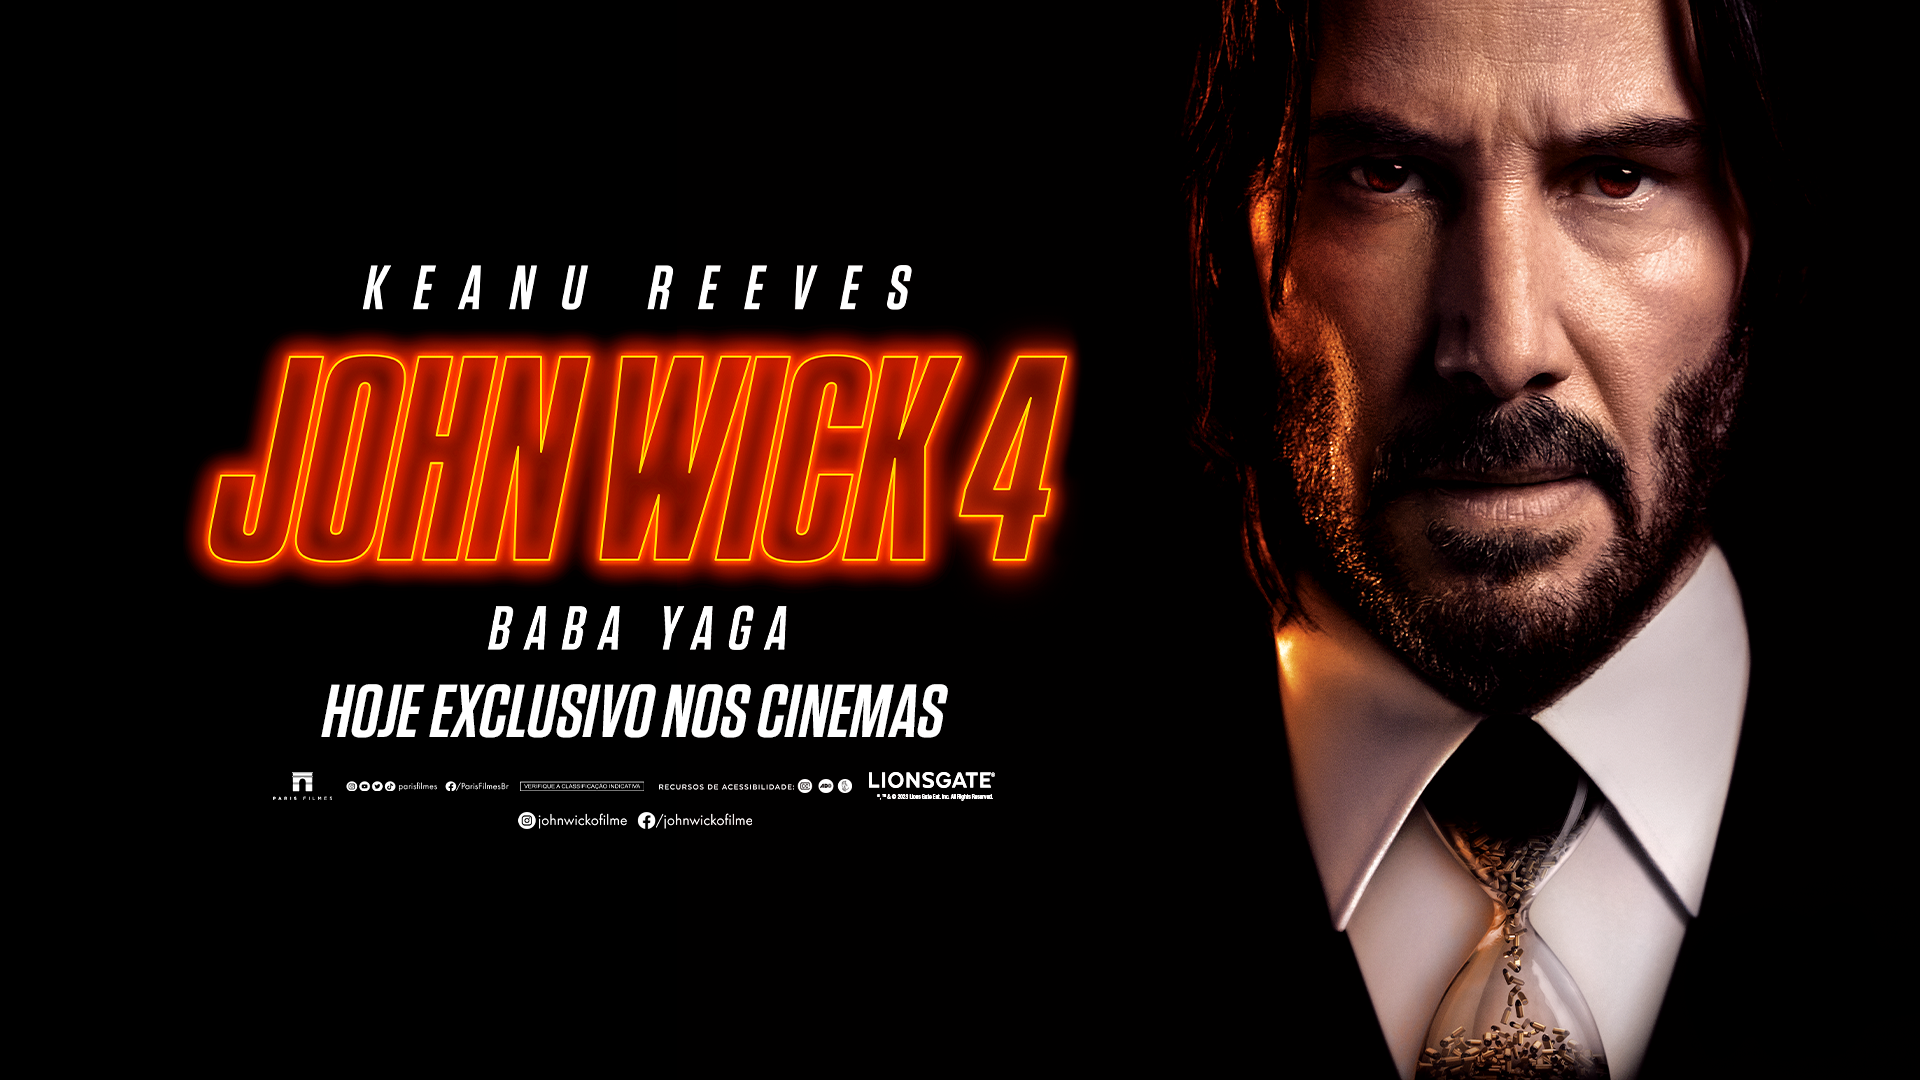
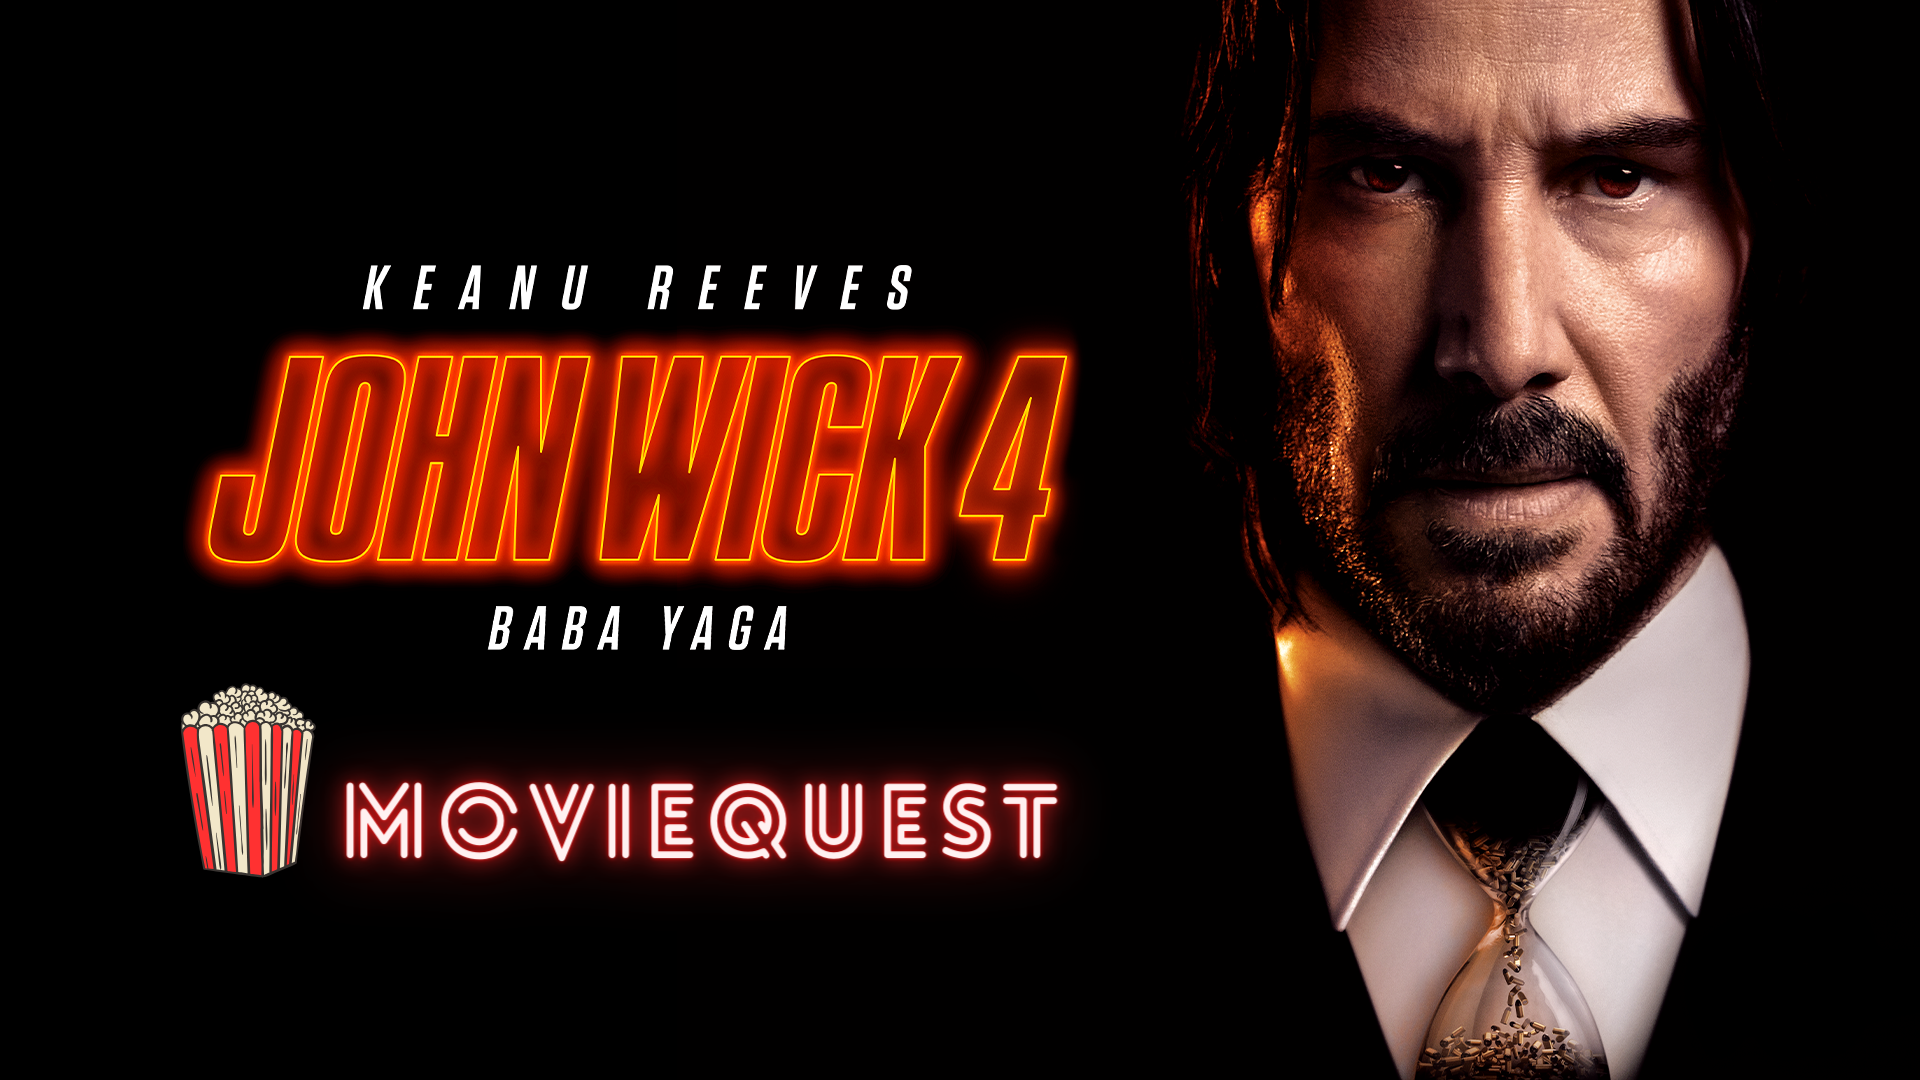
:ok_hand: Code review changes

Changed region(s): [[0.0938, 0.6111, 0.5625, 0.825]]

diff --git a/src/pages/movie/index.js b/src/pages/movie/index.js
@@ -1,6 +1,5 @@
-import { useEffect, useState } from "react";
-import { useParams } from "react-router-dom";
-import { Link } from "react-router-dom";
+import React, { useEffect, useState } from "react";
+import { useParams, Link } from "react-router-dom";
 import { ContainerMovie } from "../home/style";
 import "./styles.css";
 
@@ -8,56 +7,72 @@ const Movie = () => {
   const { id } = useParams();
   const imagePath = "https://image.tmdb.org/t/p/w500";
 
-  const [movie, setMovie] = useState(null); // Inicialize movie como nulo
+  const [movie, setMovie] = useState(null);
 
   const KEY = process.env.REACT_APP_KEY;
+
   useEffect(() => {
-    fetch(
-      `https://api.themoviedb.org/3/movie/${id}?api_key=${KEY}&language=pt-BR`
-    )
-      .then((response) => response.json())
-      .then((data) => {
+    const fetchMovieDetails = async () => {
+      try {
+        const response = await fetch(
+          `https://api.themoviedb.org/3/movie/${id}?api_key=${KEY}&language=pt-BR`
+        );
+        const data = await response.json();
         setMovie(data);
-      })
-      .catch((error) => {
+      } catch (error) {
         console.error("Erro ao buscar detalhes do filme:", error);
-      });
+      }
+    };
+
+    fetchMovieDetails();
   }, [id, KEY]);
 
   if (!movie) {
     // Verificando se o filme está definido antes de acessar suas propriedades
-    return (
-      <div id="loading">
-        Carregando...
-      </div>
-    )
+    return <div id="loading">Carregando...</div>;
   }
 
   return (
     <ContainerMovie>
-      <div id="box">
+  <div className="container-fluid">
+    <div className="row">
+      <div className="col-lg-6 d-flex justify-content-center align-items-center" style={{ padding: "20px" }}>
         <img
           className="img_movie"
           src={`${imagePath}${movie.poster_path}`}
           alt={movie.title}
         />
-        <div className="container">
-          <h1>{movie.title}</h1>
-          <h3>Data de lançamento: {movie.release_date}</h3>
-          <div className="descricao">
-            <h4>Descrição: </h4>
-            <p className="movie-desc">{movie.overview}</p>
-          </div>
-          <Link to="/">
-            <button className="link_button">
-              <svg xmlns="http://www.w3.org/2000/svg" width="40" height="40" fill="currentColor" className="bi bi-x" viewBox="0 0 16 16">
-                <path d="M4.646 4.646a.5.5 0 0 1 .708 0L8 7.293l2.646-2.647a.5.5 0 0 1 .708.708L8.707 8l2.647 2.646a.5.5 0 0 1-.708.708L8 8.707l-2.646 2.647a.5.5 0 0 1-.708-.708L7.293 8 4.646 5.354a.5.5 0 0 1 0-.708z"/>
-              </svg>
-            </button>
-          </Link>
-        </div>
       </div>
-    </ContainerMovie>
+      <div className="col-lg-6 text-center">
+        <h1>{movie.title}</h1>
+        <h3>Data de lançamento: {movie.release_date}</h3>
+        <h3>Classificação: {movie.vote_average}/10</h3>
+        <h3>
+          Gêneros: {movie.genres.map((genre) => genre.name).join(", ")}
+        </h3>
+        <h4>Descrição: </h4>
+        <div className="descricao">
+          <p className="movie-desc">{movie.overview}</p>
+        </div>
+        <Link to="/">
+          <button className="link_button">
+            <svg
+              xmlns="http://www.w3.org/2000/svg"
+              width="40"
+              height="40"
+              fill="currentColor"
+              className="bi bi-x"
+              viewBox="0 0 16 16"
+            >
+              <path d="M4.646 4.646a.5.5 0 0 1 .708 0L8 7.293l2.646-2.647a.5.5 0 0 1 .708.708L8.707 8l2.647 2.646a.5.5 0 0 1-.708.708L8 8.707l-2.646 2.647a.5.5 0 0 1-.708-.708L7.293 8 4.646 5.354a.5.5 0 0 1 0-.708z" />
+            </svg>
+          </button>
+        </Link>
+      </div>
+    </div>
+  </div>
+</ContainerMovie>
+
   );
 };
 

diff --git a/src/pages/home/index.js b/src/pages/home/index.js
@@ -17,7 +17,7 @@ function Home() {
   const [initialMovies, setInitialMovies] = useState([]);
   const [genres, setGenres] = useState([]);
 
-  // Efeitos colaterais (useEffect)
+  // useEffect
   useEffect(() => {
     fetchPopularMovies();
     fetchGenres();
@@ -105,7 +105,7 @@ function Home() {
     <Container>
       <nav className="navbar navbar-expand-lg fixed-top">
         <div className="container-fluid">
-          <a className="navbar-brand text-white" href="#">
+          <a className="navbar-brand text-white" href="/">
             MovieQuest
           </a>
           <button
@@ -137,7 +137,7 @@ function Home() {
                 <a
                   className="nav-link active text-white"
                   aria-current="page"
-                  href="#inicio"
+                  href="/"
                 >
                   Início
                 </a>
@@ -226,28 +226,36 @@ function Home() {
         </div>
         <div className="carousel-inner">
           <div className="carousel-item active">
-            <img
-              src={process.env.PUBLIC_URL + "/img/johnwick4.png"}
-              className="d-block w-100"
-            />
+            <Link to="/569094">
+              <img
+                src={process.env.PUBLIC_URL + "/img/homemaranha.png"}
+                className="d-block w-100"
+              />
+            </Link>
           </div>
           <div className="carousel-item">
-            <img
-              src={process.env.PUBLIC_URL + "/img/adao-negro.jpg"}
-              className="d-block w-100"
-            />
+            <Link to="/603692">
+              <img
+                src={process.env.PUBLIC_URL + "/img/johnwick4.png"}
+                className="d-block w-100"
+              />
+            </Link>
           </div>
           <div className="carousel-item">
-            <img
-              src={process.env.PUBLIC_URL + "/img/transformers.jpg"}
-              className="d-block w-100"
-            />
+            <Link to="/667538">
+              <img
+                src={process.env.PUBLIC_URL + "/img/transformers.jpg"}
+                className="d-block w-100"
+              />
+            </Link>
           </div>
           <div className="carousel-item">
-            <img
-              src={process.env.PUBLIC_URL + "/img/megan.jpg"}
-              className="d-block w-100"
-            />
+            <Link to="/436270">
+              <img
+                src={process.env.PUBLIC_URL + "/img/adao-negro.jpg"}
+                className="d-block w-100"
+              />
+            </Link>
           </div>
         </div>
         <button
@@ -285,7 +293,7 @@ function Home() {
           </svg>
         </button>
       </div>
-      <h2 style={{color: "#fff"}}>Mais vistos</h2>
+      <h2 style={{color: "#fff", marginTop: "20px"}}>Mais vistos</h2>
       <MovieList>
         {movies.map((movie) => {
           if (movie.poster_path) {

diff --git a/src/pages/movie/styles.css b/src/pages/movie/styles.css
@@ -35,27 +35,15 @@ input.form-control::placeholder{
   border-radius: 20px; 
   overflow: hidden;
 }
-/* .card{
-  display: flex;
-  justify-content: center;
-  align-items: center;
-  width: 230px;
-  margin-left: 20px;
-  padding-top: 30px;
-  background: rgb(0,0,0);
-  background: linear-gradient(90deg, rgba(0,0,0,1) 0%, rgba(56,1,153,1) 38%, rgba(28,0,96,1) 100%);
-} */
 .link_button {
   position: absolute;
   top: 0;
   right: 0;
   margin-top: 10px;
   margin-right: 10px;
-  padding: 0.7rem 3rem;
   border: none;
   border-radius: 15px;
   color: #212121;
-  background-color: #ffffff;
   font-weight: 1000;
   font-size: 12 px;
   cursor: pointer;
@@ -64,10 +52,6 @@ input.form-control::placeholder{
 .link_button:hover{
   transform: scale(1.1);
 }
-.img_movie {
-  width: 20%;
-  margin: 0 40%;
-}
 #carouselExampleIndicators{
   width: 80vw;
   margin-left: 10vw;
@@ -75,12 +59,14 @@ input.form-control::placeholder{
 }
 .movie-desc {
   text-align: justify;
+  max-height: 300px;
+  overflow-y: auto;
 }
 .descricao {
   display: flex;
   flex-direction: column;
   align-items: flex-start;
-  margin: 0 30%;
+  margin: 0 10px;
 }
 .descricao h4 {
   font-size: 24px;

diff --git a/public/index.html b/public/index.html
@@ -2,7 +2,7 @@
 <html lang="en">
   <head>
     <meta charset="utf-8" />
-    <link rel="icon" href="%PUBLIC_URL%/favicon.ico" />
+    <link rel="icon" href="%PUBLIC_URL%/favicon.png" />
     <meta name="viewport" content="width=device-width, initial-scale=1" />
     <meta name="theme-color" content="#000000" />
     <meta
@@ -11,7 +11,7 @@
     />
     <link rel="apple-touch-icon" href="%PUBLIC_URL%/logo192.png" />
     <link rel="manifest" href="%PUBLIC_URL%/manifest.json" />
-    <title>React App</title>
+    <title>MovieQuest</title>
   </head>
   <body>
     <noscript>You need to enable JavaScript to run this app.</noscript>

diff --git a/src/pages/home/style.js b/src/pages/home/style.js
@@ -8,11 +8,22 @@ export const Container = styled.div`
 `;
 
 export const ContainerMovie = styled.div`
+    display: flex;
+    justify-content: center;
+    align-items: center;
     height: 100vh;
-    position: relative;
     background: rgb(0,0,0);
     background: linear-gradient(90deg, rgba(0,0,0,1) 0%, rgba(56,1,153,1) 38%, rgba(28,0,96,1) 100%);
     padding: 10px;
+    h1,h3,h4,p{
+        color: #fff;
+    }
+    @media (max-width: 798px) {
+        .img_movie{
+            width: 200px;
+            height: 300px;
+        }
+      }
 `;
 
 export const MovieList = styled.ul`

diff --git a/src/index.js b/src/index.js
@@ -2,7 +2,6 @@ import React from "react";
 import ReactDOM from "react-dom/client";
 import { BrowserRouter } from "react-router-dom";
 import App from "./App";
-import "./global.css";
 import 'bootstrap/dist/css/bootstrap.css';
 
 const root = ReactDOM.createRoot(document.getElementById("root"));
